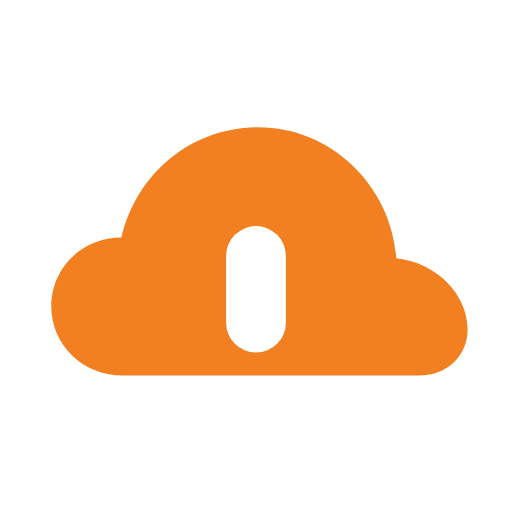
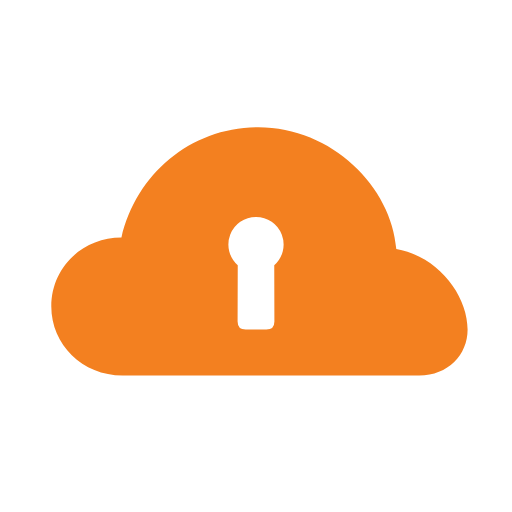
feat(brand): refine keyhole geometry and rebalance the lockup

diff --git a/public/404.html b/public/404.html
@@ -15,11 +15,11 @@
   <meta property="og:type" content="website">
   <meta property="og:title" content="CloudVault">
   <meta property="og:description" content="Open-source private cloud storage for Cloudflare Workers + R2. WebDAV, share links, dark and light themes.">
-  <meta property="og:image" content="https://pan.laobaitv.net/og-image.png?v=1.14.1">
+  <meta property="og:image" content="https://pan.laobaitv.net/og-image.png?v=1.14.2">
   <meta name="twitter:card" content="summary_large_image">
   <meta name="twitter:title" content="CloudVault">
   <meta name="twitter:description" content="Open-source private cloud storage for Cloudflare Workers + R2. WebDAV, share links, dark and light themes.">
-  <meta name="twitter:image" content="https://pan.laobaitv.net/og-image.png?v=1.14.1">
+  <meta name="twitter:image" content="https://pan.laobaitv.net/og-image.png?v=1.14.2">
   <script src="/js/i18n.js"></script>
   <link rel="stylesheet" href="/css/tailwind.css">
   <link rel="stylesheet" href="/css/app.css">

diff --git a/public/dashboard.html b/public/dashboard.html
@@ -17,11 +17,11 @@
   <meta property="og:type" content="website">
   <meta property="og:title" content="CloudVault">
   <meta property="og:description" content="Open-source private cloud storage for Cloudflare Workers + R2. WebDAV, share links, dark and light themes.">
-  <meta property="og:image" content="https://pan.laobaitv.net/og-image.png?v=1.14.1">
+  <meta property="og:image" content="https://pan.laobaitv.net/og-image.png?v=1.14.2">
   <meta name="twitter:card" content="summary_large_image">
   <meta name="twitter:title" content="CloudVault">
   <meta name="twitter:description" content="Open-source private cloud storage for Cloudflare Workers + R2. WebDAV, share links, dark and light themes.">
-  <meta name="twitter:image" content="https://pan.laobaitv.net/og-image.png?v=1.14.1">
+  <meta name="twitter:image" content="https://pan.laobaitv.net/og-image.png?v=1.14.2">
   <script src="/js/i18n.js"></script>
   <link rel="stylesheet" href="/css/tailwind.css">
   <link rel="stylesheet" href="/css/app.css">

diff --git a/public/guest.html b/public/guest.html
@@ -15,11 +15,11 @@
   <meta property="og:type" content="website">
   <meta property="og:title" content="CloudVault">
   <meta property="og:description" content="Open-source private cloud storage for Cloudflare Workers + R2. WebDAV, share links, dark and light themes.">
-  <meta property="og:image" content="https://pan.laobaitv.net/og-image.png?v=1.14.1">
+  <meta property="og:image" content="https://pan.laobaitv.net/og-image.png?v=1.14.2">
   <meta name="twitter:card" content="summary_large_image">
   <meta name="twitter:title" content="CloudVault">
   <meta name="twitter:description" content="Open-source private cloud storage for Cloudflare Workers + R2. WebDAV, share links, dark and light themes.">
-  <meta name="twitter:image" content="https://pan.laobaitv.net/og-image.png?v=1.14.1">
+  <meta name="twitter:image" content="https://pan.laobaitv.net/og-image.png?v=1.14.2">
   <script src="/js/i18n.js"></script>
   <link rel="stylesheet" href="/css/tailwind.css">
   <link rel="stylesheet" href="/css/app.css">

diff --git a/public/setup.html b/public/setup.html
@@ -14,11 +14,11 @@
   <meta property="og:type" content="website">
   <meta property="og:title" content="CloudVault">
   <meta property="og:description" content="Open-source private cloud storage for Cloudflare Workers + R2. WebDAV, share links, dark and light themes.">
-  <meta property="og:image" content="https://pan.laobaitv.net/og-image.png?v=1.14.1">
+  <meta property="og:image" content="https://pan.laobaitv.net/og-image.png?v=1.14.2">
   <meta name="twitter:card" content="summary_large_image">
   <meta name="twitter:title" content="CloudVault">
   <meta name="twitter:description" content="Open-source private cloud storage for Cloudflare Workers + R2. WebDAV, share links, dark and light themes.">
-  <meta name="twitter:image" content="https://pan.laobaitv.net/og-image.png?v=1.14.1">
+  <meta name="twitter:image" content="https://pan.laobaitv.net/og-image.png?v=1.14.2">
   <script src="/js/i18n.js"></script>
   <link rel="stylesheet" href="/css/tailwind.css">
   <link rel="stylesheet" href="/css/app.css">

diff --git a/public/login.html b/public/login.html
@@ -15,11 +15,11 @@
   <meta property="og:type" content="website">
   <meta property="og:title" content="CloudVault">
   <meta property="og:description" content="Open-source private cloud storage for Cloudflare Workers + R2. WebDAV, share links, dark and light themes.">
-  <meta property="og:image" content="https://pan.laobaitv.net/og-image.png?v=1.14.1">
+  <meta property="og:image" content="https://pan.laobaitv.net/og-image.png?v=1.14.2">
   <meta name="twitter:card" content="summary_large_image">
   <meta name="twitter:title" content="CloudVault">
   <meta name="twitter:description" content="Open-source private cloud storage for Cloudflare Workers + R2. WebDAV, share links, dark and light themes.">
-  <meta name="twitter:image" content="https://pan.laobaitv.net/og-image.png?v=1.14.1">
+  <meta name="twitter:image" content="https://pan.laobaitv.net/og-image.png?v=1.14.2">
   <script src="/js/i18n.js"></script>
   <link rel="stylesheet" href="/css/tailwind.css">
   <style>

diff --git a/public/share.html b/public/share.html
@@ -15,11 +15,11 @@
   <meta property="og:type" content="website">
   <meta property="og:title" content="CloudVault">
   <meta property="og:description" content="Open-source private cloud storage for Cloudflare Workers + R2. WebDAV, share links, dark and light themes.">
-  <meta property="og:image" content="https://pan.laobaitv.net/og-image.png?v=1.14.1">
+  <meta property="og:image" content="https://pan.laobaitv.net/og-image.png?v=1.14.2">
   <meta name="twitter:card" content="summary_large_image">
   <meta name="twitter:title" content="CloudVault">
   <meta name="twitter:description" content="Open-source private cloud storage for Cloudflare Workers + R2. WebDAV, share links, dark and light themes.">
-  <meta name="twitter:image" content="https://pan.laobaitv.net/og-image.png?v=1.14.1">
+  <meta name="twitter:image" content="https://pan.laobaitv.net/og-image.png?v=1.14.2">
   <script src="/js/i18n.js"></script>
   <link rel="stylesheet" href="/css/tailwind.css">
   <style>

diff --git a/tests/brand.test.ts b/tests/brand.test.ts
@@ -35,6 +35,7 @@ describe('brand artwork', () => {
       const svg = readFileSync(file, 'utf8');
       expect(svg).toContain('CloudVault');
       expect(svg).toContain('M140 360');
+      expect(svg).toContain('M256 222');
       expect(svg).toContain('<tspan fill="#F38020">Cloud</tspan>Vault');
     }
   });

diff --git a/README.md b/README.md
@@ -10,7 +10,7 @@ Open-source private cloud storage for Cloudflare Workers + R2. Upload, organize,
 
 [English](README.md) · [中文](README.zh-CN.md) · [Documentation](https://github.com/zqs1qiwan/cloudvault/wiki)
 
-`v1.14.1` · `Cloudflare Workers + R2` · `MIT`
+`v1.14.2` · `Cloudflare Workers + R2` · `MIT`
 
 ## What you get
 

diff --git a/README.zh-CN.md b/README.zh-CN.md
@@ -10,7 +10,7 @@
 
 [中文](README.zh-CN.md) · [English](README.md) · [使用文档](https://github.com/zqs1qiwan/cloudvault/wiki)
 
-`v1.14.1` · `Cloudflare Workers + R2` · `MIT`
+`v1.14.2` · `Cloudflare Workers + R2` · `MIT`
 
 ## 主要功能
 
